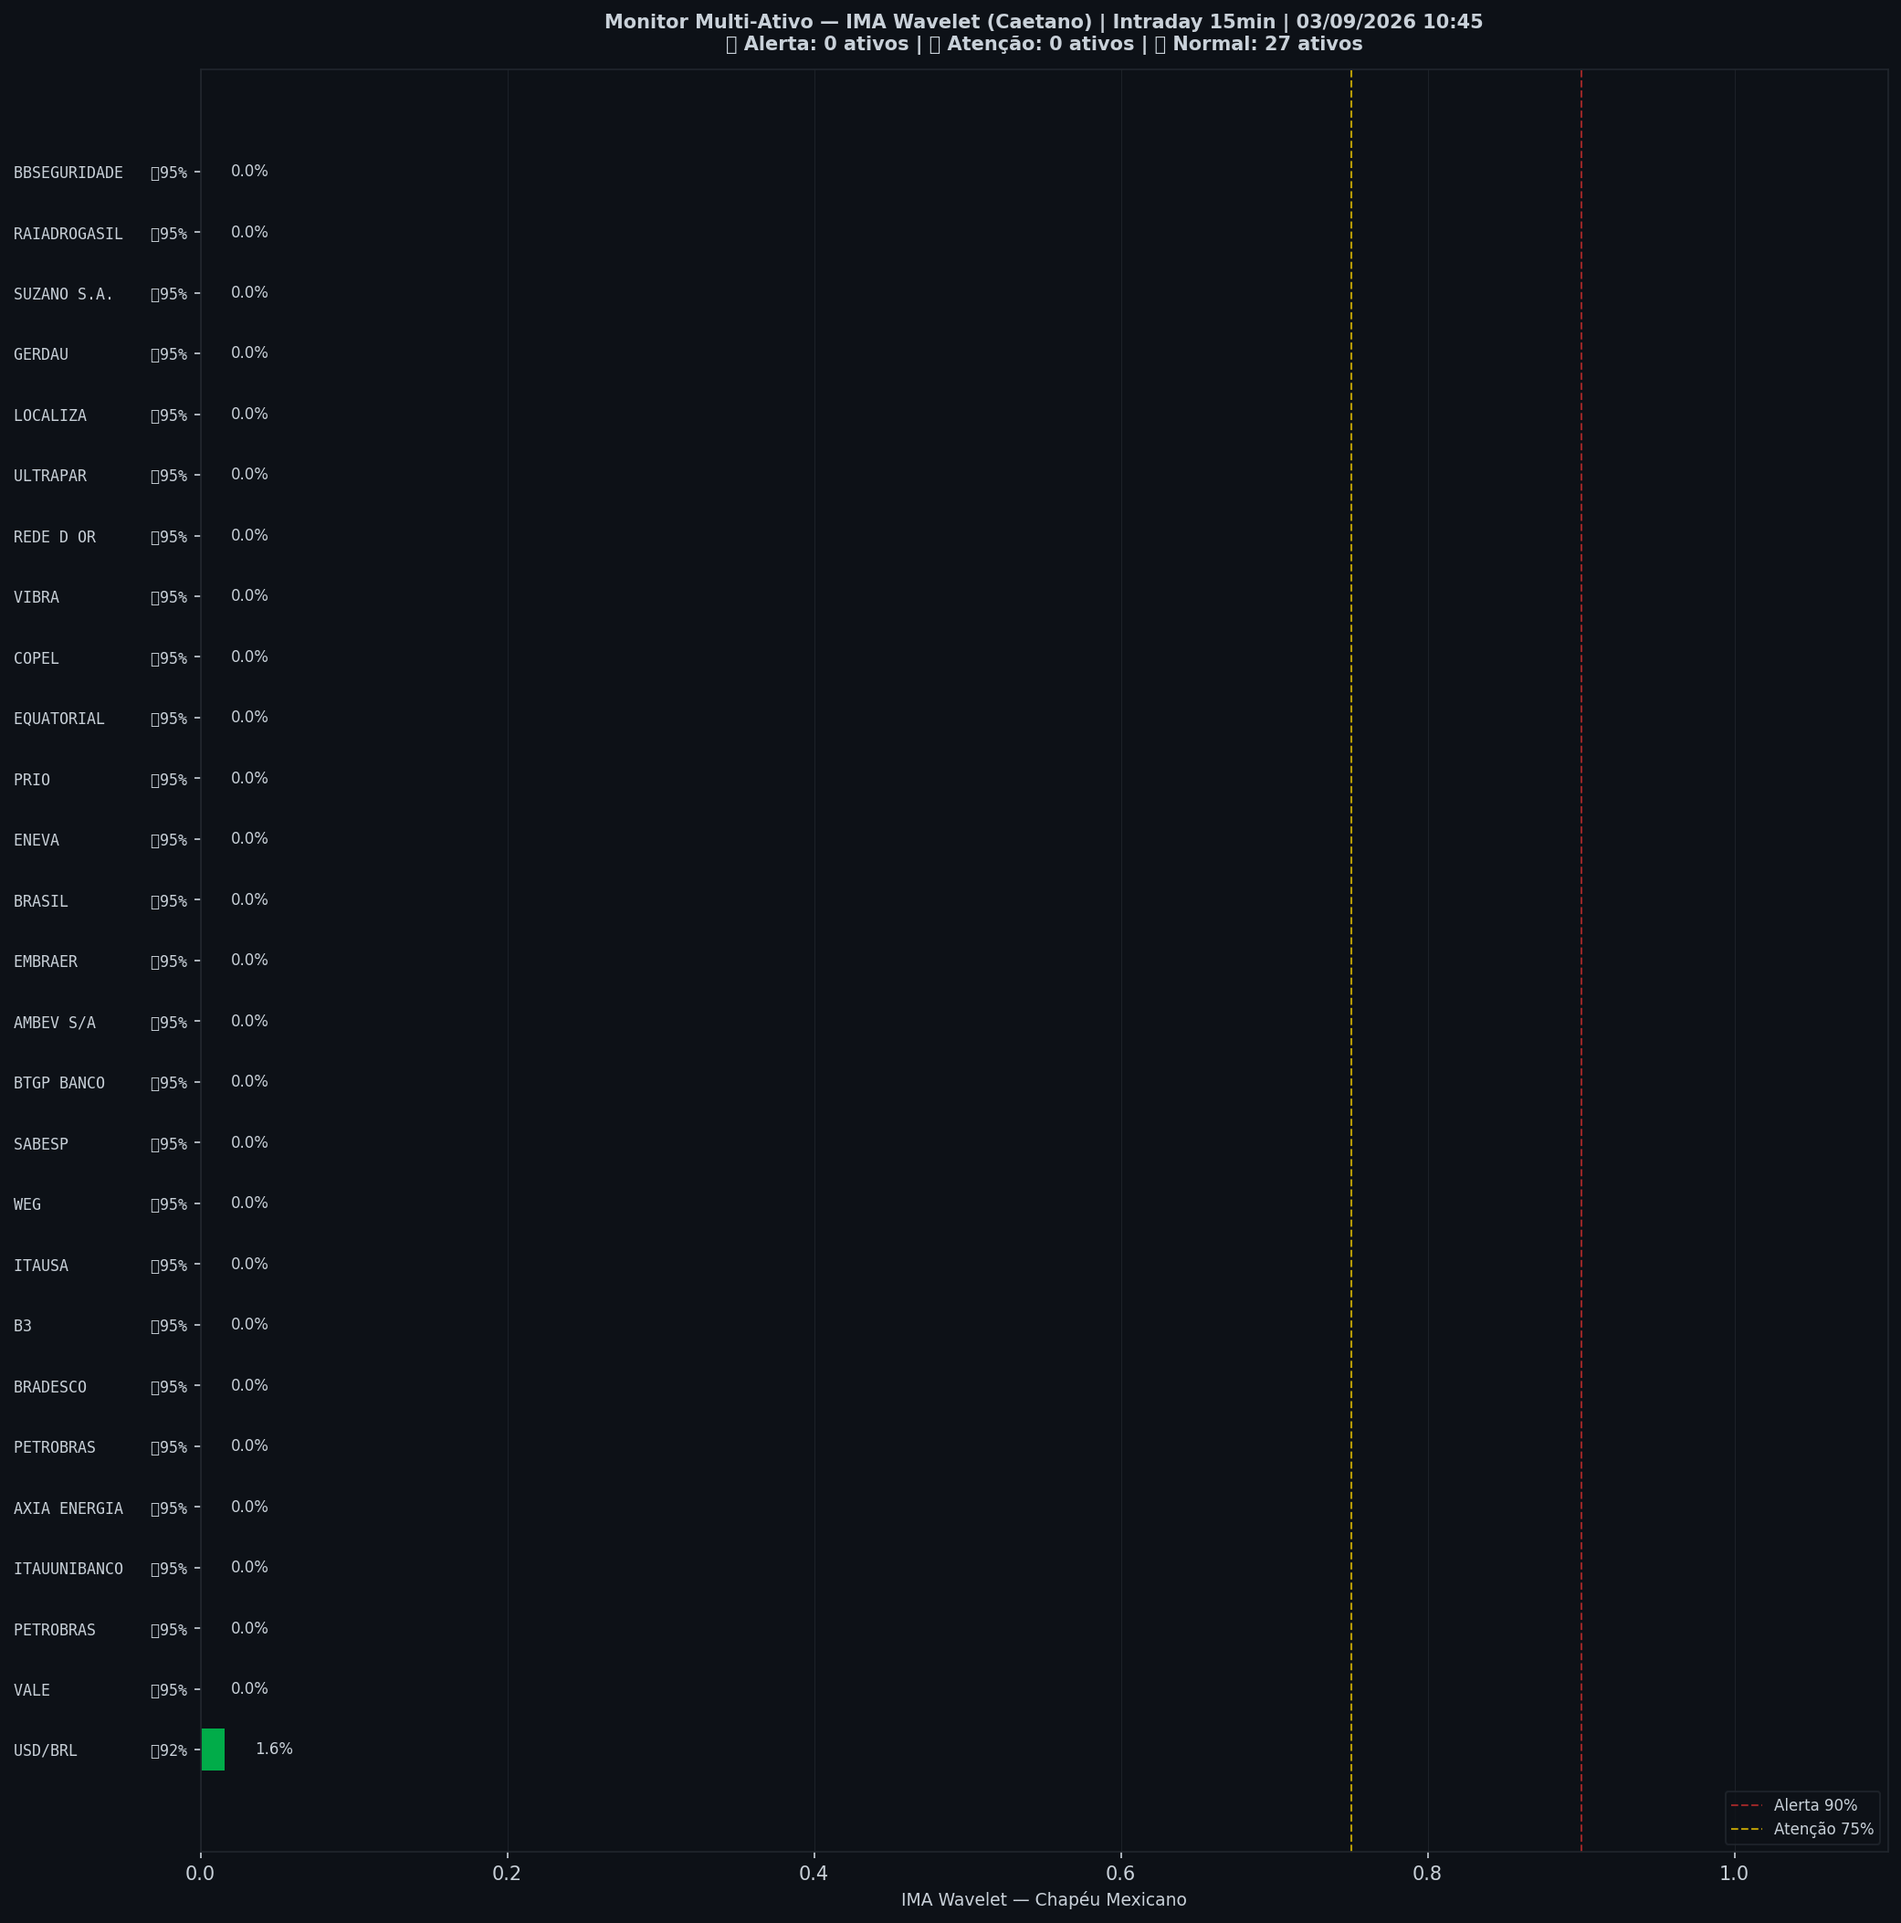
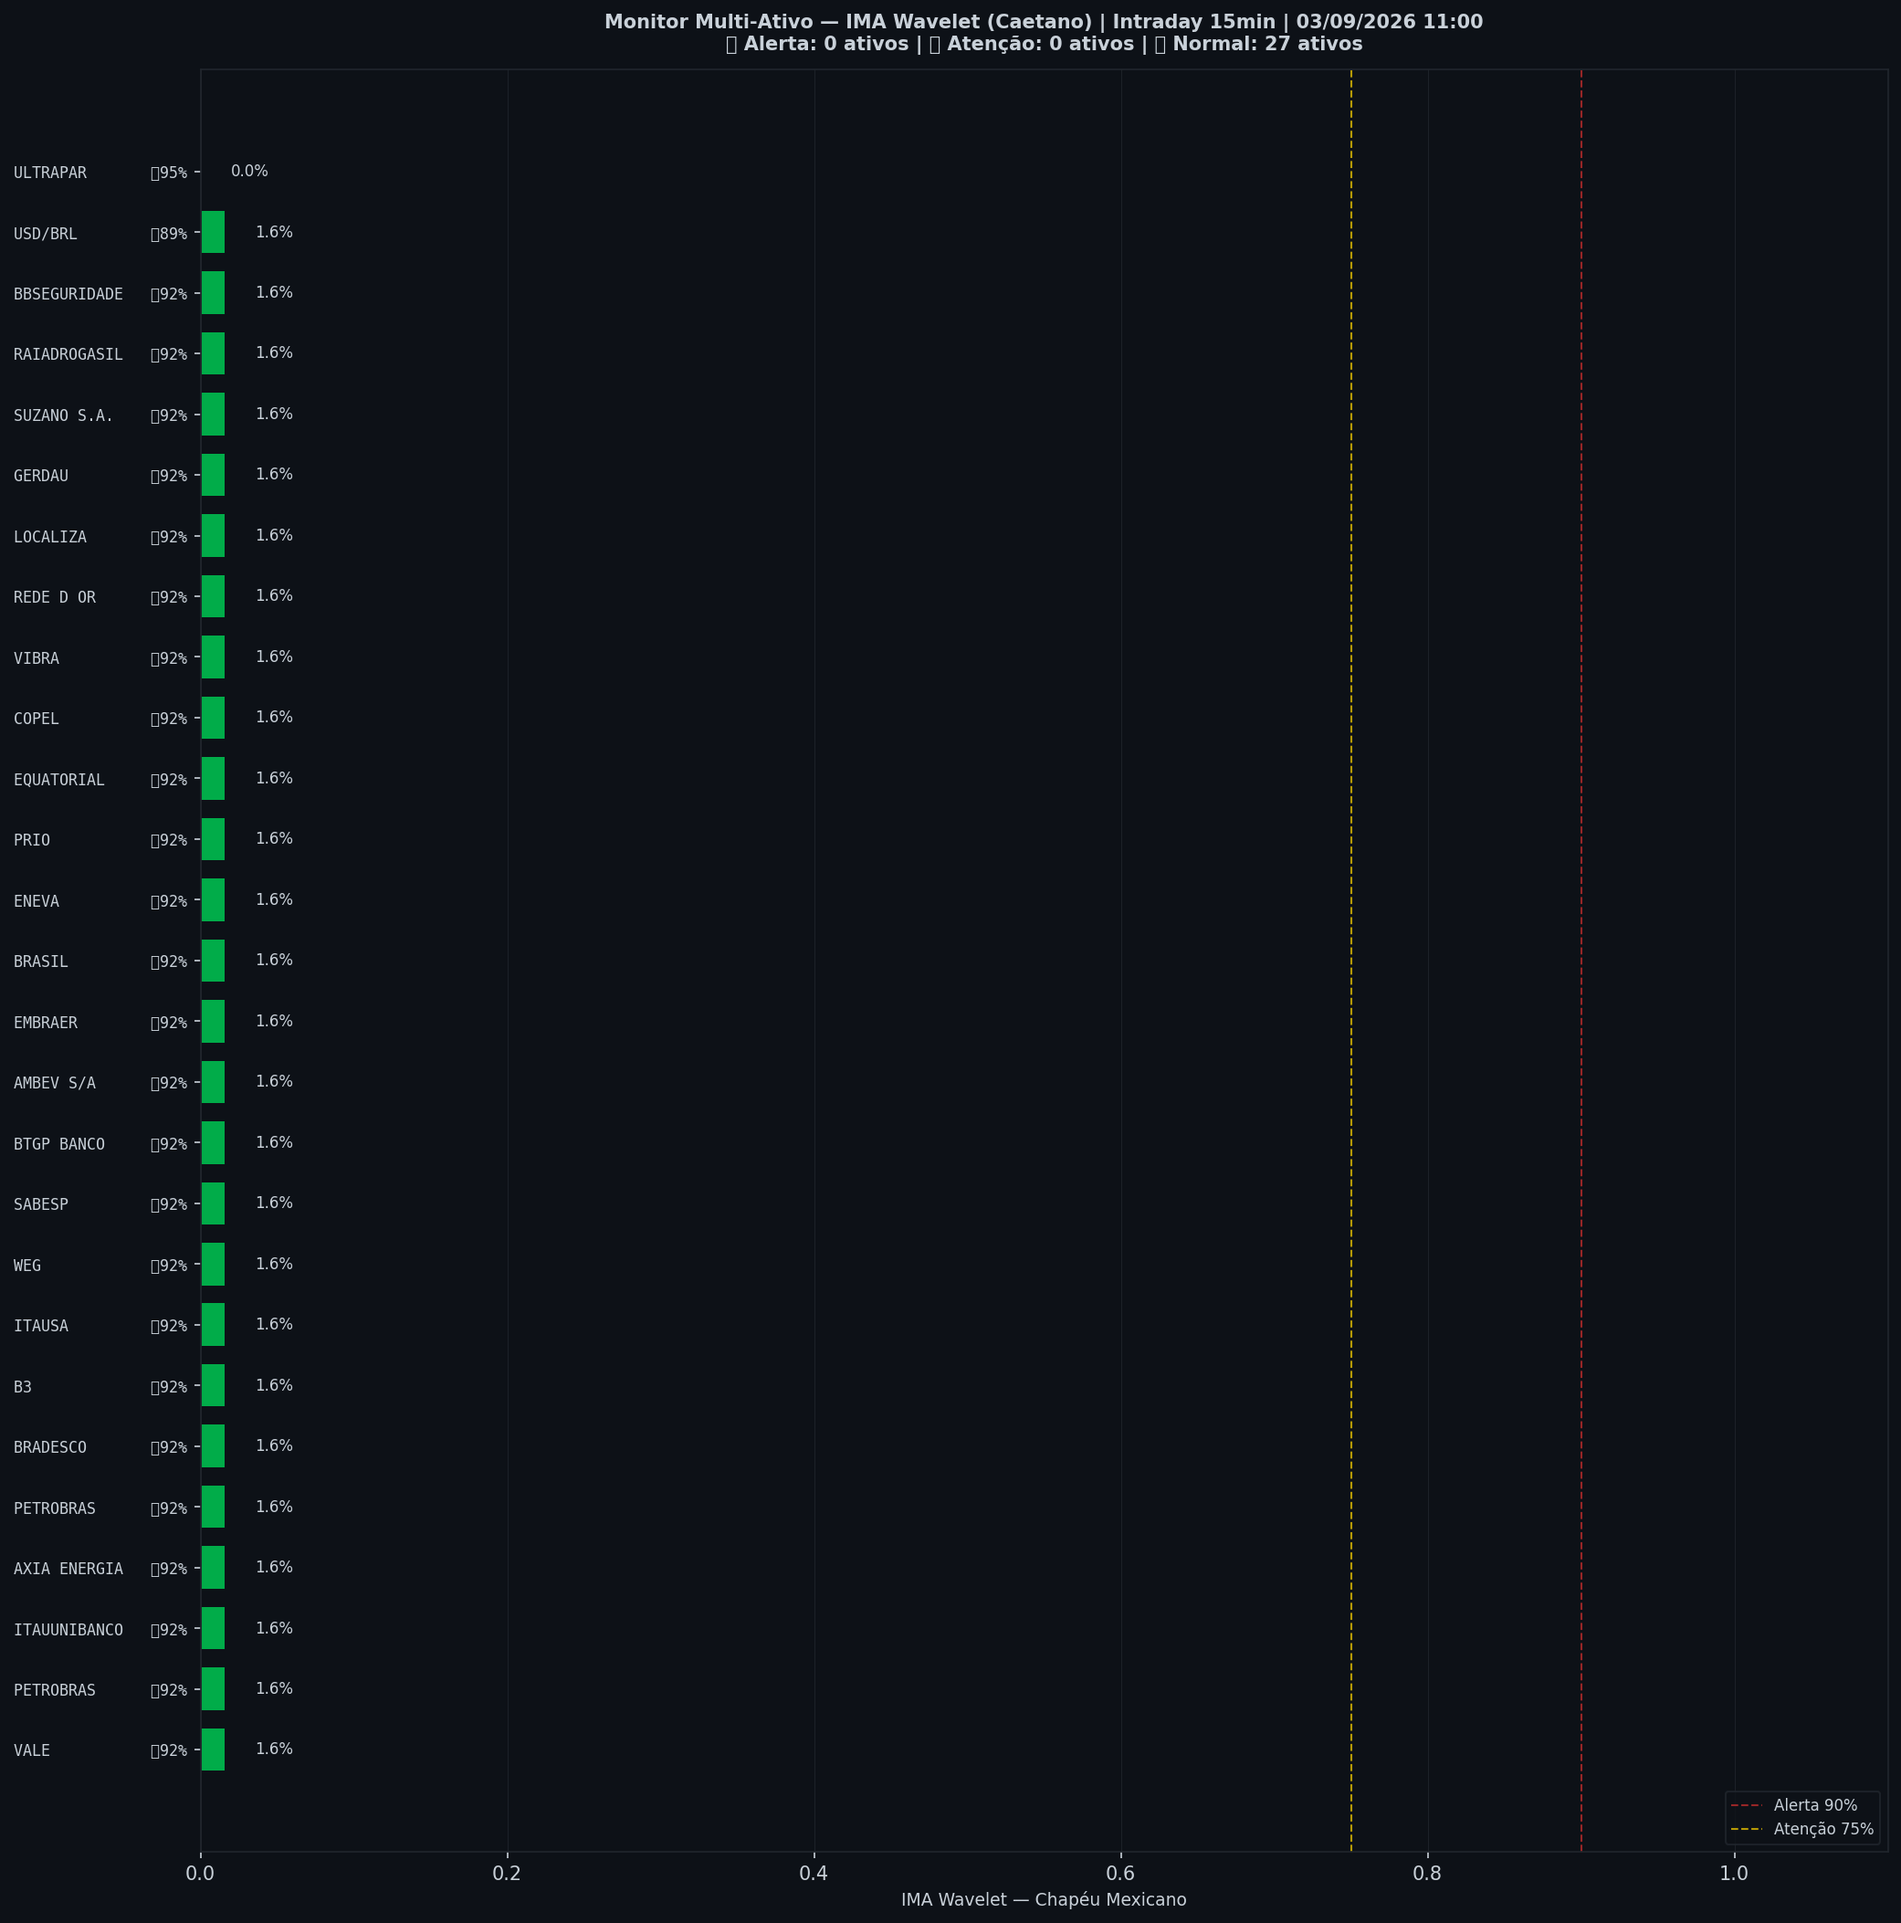
🤖 Auto: Sinal 03/09/2026 11:00

Changed region(s): [[0.0937, 0.0926, 0.1249, 0.8951], [0.0312, 0.8025, 0.0624, 0.8642], [0.0312, 0.0617, 0.0624, 0.0926]]

diff --git a/content/intraday/2026-09-03.md b/content/intraday/2026-09-03.md
@@ -1,20 +1,20 @@
 ---
-title: "🟡 Intraday 03/09/2026 10:00 BRT — AMARELO"
+title: "🟡 Intraday 03/09/2026 10:15 BRT — AMARELO"
 date: 2026-09-03
 tags: [intraday]
 ---
 
-> [!warning] 🟡 **AMARELO** — Risco 69% · ＝ +0 p.p. vs leitura anterior
-> `██████████████░░░░░░`
+> [!warning] 🟡 **AMARELO** — Risco 77% · ▲ +8 p.p. vs leitura anterior
+> `███████████████░░░░░`
 > Atenção — padrão de coeficientes associado a quedas mais severas.
 
 
 | Indicador | Valor |
 |---|---|
-| 🔴 ζ Crash — severidade da queda em curso | **69%** |
+| 🔴 ζ Crash — severidade da queda em curso | **77%** |
 | 🔵 ζ Entrada — estrutura de fundo | 2% |
 | 🫧 LPPL DS-Confidence | 0% |
-| 📊 Ibovespa | 187.836 pts |
+| 📊 Ibovespa | 188.818 pts |
 
 ![Gráfico do sinal](../graficos/sinal_intraday.png)
 
@@ -22,6 +22,7 @@ tags: [intraday]
 
 | Data | Zona | Risco | IMA Crash | Entrada | LPPL |
 |---|---|---|---|---|---|
+| 2026-09-03 10:15 | 🟡 AMARELO | **77%** | 77% | 2% | 0% |
 | 2026-09-03 10:00 | 🟡 AMARELO | **69%** | 69% | 2% | 0% |
 | 2026-09-02 16:45 | 🟡 AMARELO | **69%** | 69% | 0% | 0% |
 | 2026-09-02 16:30 | 🟡 AMARELO | **70%** | 70% | 0% | 0% |
@@ -51,7 +52,6 @@ tags: [intraday]
 | 2026-09-02 10:30 | 🟢 VERDE | **5%** | 5% | 5% | 0% |
 | 2026-09-02 10:15 | 🟢 VERDE | **2%** | 2% | 9% | 0% |
 | 2026-09-02 10:00 | 🟢 VERDE | **0%** | 0% | 15% | 0% |
-| 2026-09-01 16:45 | 🟢 VERDE | **1%** | 1% | 12% | 0% |
 
 ## Monitor Multi-Ativo
 
@@ -59,37 +59,37 @@ tags: [intraday]
 
 | Zona | Ativo | Setor | IMA Crash | IMA Entrada |
 |---|---|---|---|---|
-| 🟢 | **USD/BRL** | Câmbio | 1.6% | 92.2% |
-| 🟢 | **VALE** | Mineração | 0.0% | 94.5% |
-| 🟢 | **PETROBRAS** | Petróleo | 0.0% | 94.5% |
-| 🟢 | **ITAUUNIBANCO** | Financeiro | 0.0% | 94.5% |
-| 🟢 | **AXIA ENERGIA** | Energia | 0.0% | 94.5% |
-| 🟢 | **PETROBRAS** | Petróleo | 0.0% | 94.5% |
-| 🟢 | **BRADESCO** | Financeiro | 0.0% | 94.5% |
-| 🟢 | **B3** | Financeiro | 0.0% | 94.5% |
-| 🟢 | **ITAUSA** | Financeiro | 0.0% | 94.5% |
-| 🟢 | **WEG** | Industrial | 0.0% | 94.5% |
-| 🟢 | **SABESP** | Saneamento | 0.0% | 94.5% |
-| 🟢 | **BTGP BANCO** | Financeiro | 0.0% | 94.5% |
-| 🟢 | **AMBEV S/A** | Consumo | 0.0% | 94.5% |
-| 🟢 | **EMBRAER** | Outros | 0.0% | 94.5% |
-| 🟢 | **BRASIL** | Financeiro | 0.0% | 94.5% |
-| 🟢 | **ENEVA** | Energia | 0.0% | 94.5% |
-| 🟢 | **PRIO** | Petróleo | 0.0% | 94.5% |
-| 🟢 | **EQUATORIAL** | Energia | 0.0% | 94.5% |
-| 🟢 | **COPEL** | Energia | 0.0% | 94.5% |
-| 🟢 | **VIBRA** | Energia | 0.0% | 94.5% |
-| 🟢 | **REDE D OR** | Saúde | 0.0% | 94.5% |
+| 🟢 | **VALE** | Mineração | 1.6% | 92.2% |
+| 🟢 | **PETROBRAS** | Petróleo | 1.6% | 92.2% |
+| 🟢 | **ITAUUNIBANCO** | Financeiro | 1.6% | 92.2% |
+| 🟢 | **AXIA ENERGIA** | Energia | 1.6% | 92.2% |
+| 🟢 | **PETROBRAS** | Petróleo | 1.6% | 92.2% |
+| 🟢 | **BRADESCO** | Financeiro | 1.6% | 92.2% |
+| 🟢 | **B3** | Financeiro | 1.6% | 92.2% |
+| 🟢 | **ITAUSA** | Financeiro | 1.6% | 92.2% |
+| 🟢 | **WEG** | Industrial | 1.6% | 92.2% |
+| 🟢 | **SABESP** | Saneamento | 1.6% | 92.2% |
+| 🟢 | **BTGP BANCO** | Financeiro | 1.6% | 92.2% |
+| 🟢 | **AMBEV S/A** | Consumo | 1.6% | 92.2% |
+| 🟢 | **EMBRAER** | Outros | 1.6% | 92.2% |
+| 🟢 | **BRASIL** | Financeiro | 1.6% | 92.2% |
+| 🟢 | **ENEVA** | Energia | 1.6% | 92.2% |
+| 🟢 | **PRIO** | Petróleo | 1.6% | 92.2% |
+| 🟢 | **EQUATORIAL** | Energia | 1.6% | 92.2% |
+| 🟢 | **COPEL** | Energia | 1.6% | 92.2% |
+| 🟢 | **VIBRA** | Energia | 1.6% | 92.2% |
+| 🟢 | **REDE D OR** | Saúde | 1.6% | 92.2% |
+| 🟢 | **LOCALIZA** | Aluguel | 1.6% | 92.2% |
+| 🟢 | **GERDAU** | Siderurgia | 1.6% | 92.2% |
+| 🟢 | **SUZANO S.A.** | Papel/Celulose | 1.6% | 92.2% |
+| 🟢 | **RAIADROGASIL** | Outros | 1.6% | 92.2% |
+| 🟢 | **BBSEGURIDADE** | Financeiro | 1.6% | 92.2% |
+| 🟢 | **USD/BRL** | Câmbio | 1.6% | 89.1% |
 | 🟢 | **ULTRAPAR** | Outros | 0.0% | 94.5% |
-| 🟢 | **LOCALIZA** | Aluguel | 0.0% | 94.5% |
-| 🟢 | **GERDAU** | Siderurgia | 0.0% | 94.5% |
-| 🟢 | **SUZANO S.A.** | Papel/Celulose | 0.0% | 94.5% |
-| 🟢 | **RAIADROGASIL** | Outros | 0.0% | 94.5% |
-| 🟢 | **BBSEGURIDADE** | Financeiro | 0.0% | 94.5% |
 
 ![Monitor multi-ativo](../graficos/multi_intraday.png)
 
-*Página atualizada em 03/09/2026 10:45 BRT (leitura da barra de 2026-09-03 10:00 BRT).*
+*Página atualizada em 03/09/2026 11:00 BRT (leitura da barra de 2026-09-03 10:15 BRT).*
 
 > [!info]- Como interpretar (clique para expandir)
 > - **ζ Crash**: fração dos coeficientes wavelet acima do corte (Caetano & Yoneyama 2009). Escala absoluta: ζ=0,90 = 90% dos coeficientes anômalos — historicamente, quedas com ζ≥0,90 foram mais fundas e mais longas. **Mede a severidade do movimento em curso, não prevê o início da queda.**

diff --git a/content/index.md b/content/index.md
@@ -8,19 +8,19 @@ tags: [home]
 
 Monitoramento diário e intraday do Ibovespa — **IMA Wavelet** (Prof. Marco Antonio Leonel Caetano, ITA/INSPER) + **LPPL DS-Confidence** (Prof. Didier Sornette, ETH-Zurich).
 
-*Última atualização: 03/09/2026 10:45 BRT · ^BVSP · Intraday 15min · v4*
+*Última atualização: 03/09/2026 11:00 BRT · ^BVSP · Intraday 15min · v4*
 
-> [!warning] 🟡 **AMARELO** — Risco 69% · ＝ +0 p.p. vs leitura anterior
-> `██████████████░░░░░░`
+> [!warning] 🟡 **AMARELO** — Risco 77% · ▲ +8 p.p. vs leitura anterior
+> `███████████████░░░░░`
 > Atenção — padrão de coeficientes associado a quedas mais severas.
 
 
 | Indicador | Valor |
 |---|---|
-| 🔴 ζ Crash — severidade da queda em curso | **69%** |
+| 🔴 ζ Crash — severidade da queda em curso | **77%** |
 | 🔵 ζ Entrada — estrutura de fundo | 2% |
 | 🫧 LPPL DS-Confidence | 0% |
-| 📊 Ibovespa | 187.836 pts |
+| 📊 Ibovespa | 188.818 pts |
 
 **Multi-ativo:** 0% em tensão (0🔴 0🟡 de 27 ativos)
 
@@ -32,9 +32,8 @@ Monitoramento diário e intraday do Ibovespa — **IMA Wavelet** (Prof. Marco An
 
 | Data | Zona | Risco | IMA | LPPL |
 |---|---|---|---|---|
-| [03 Sep 2026](diario/2026-09-03) | 🟡 AMARELO | **69%** | 69% | 0% |
+| [03 Sep 2026](diario/2026-09-03) | 🟡 AMARELO | **77%** | 77% | 0% |
 | [02 Sep 2026](diario/2026-09-02) | 🟡 AMARELO | **69%** | 69% | 0% |
-| [01 Sep 2026](diario/2026-09-01) | 🟢 VERDE | **1%** | 1% | 0% |
 
 ## Navegação
 

diff --git a/content/historico.md b/content/historico.md
@@ -7,6 +7,7 @@ tags: [historico]
 
 | Data | Modo | Zona | Risco | IMA | LPPL |
 |---|---|---|---|---|---|
+| 2026-09-03 10:15 | intraday | 🟡 AMARELO | 77% | 77% | 0% |
 | 2026-09-03 10:00 | intraday | 🟡 AMARELO | 69% | 69% | 0% |
 | 2026-09-01 | diario | 🟢 VERDE | 8% | 14% | 0% |
 | 2026-09-02 16:45 | intraday | 🟡 AMARELO | 69% | 69% | 0% |
